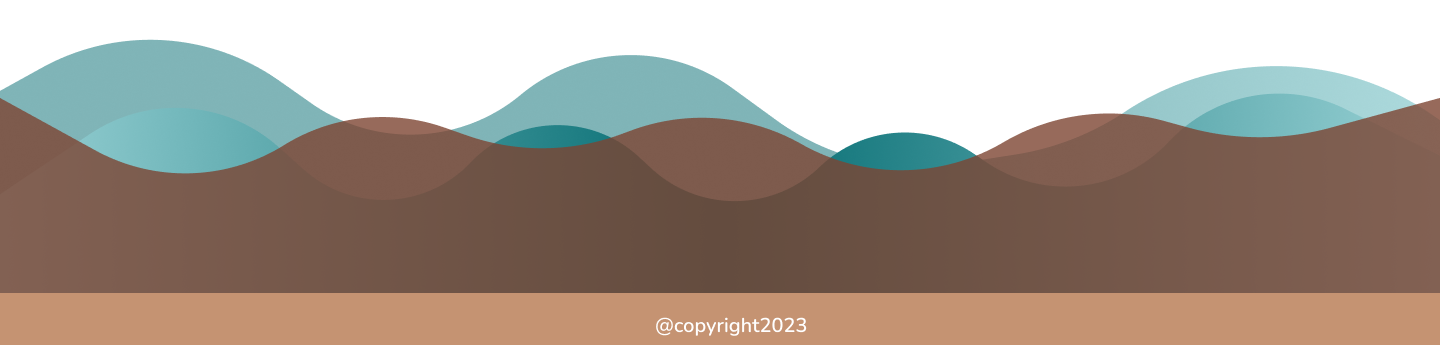
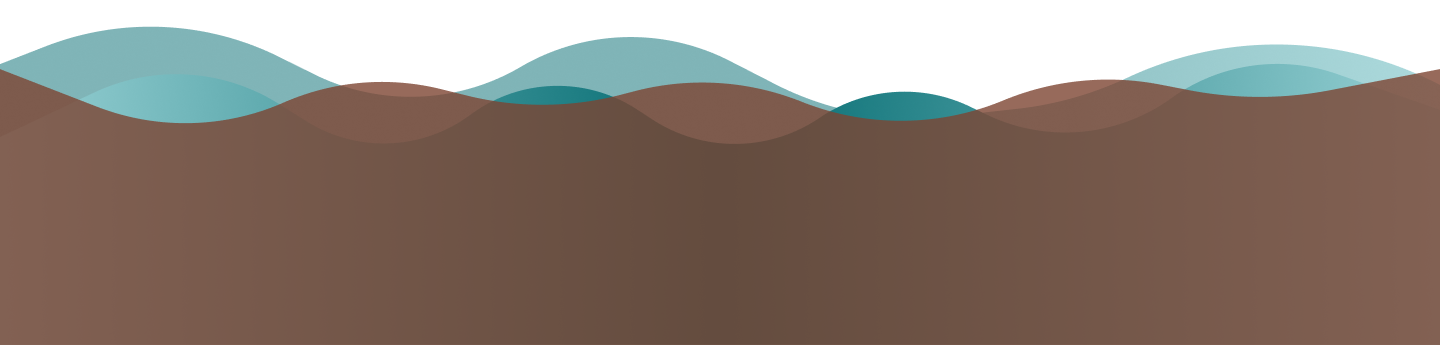
footer?

diff --git a/Homepage.html b/Homepage.html
@@ -64,12 +64,12 @@
 
     <section id = "grid-container-homepage">   
         <article>   
-            <p>bastilla</p>
+            <p>Bastilla</p>
             <a href="bastilla.html" > klik hier voor het recept </a>
             <img src="images/bastilla.jpg" alt="bastilla" title = "bastilla">
         </article>
         <article>
-            <p>chabekia</p>
+            <p>Chabekia</p>
             <a href="chabekia.html" > klik hier voor het recept </a>
             <img src="images/shabekia2.JPG" alt="chabekia" title = "chabekia">
         </article>
@@ -90,9 +90,9 @@
             <!--company info-->
         </section>
         <section id = "footer_section_2">
-                <img src="img/x.png" alt="footer" title="footer"/>
+                <img src="images/favicon.png" alt="footer" title="footer"/>
             <p>
-                contact info
+                contact infoooooooo
             </p>
         </section>
     </footer>

diff --git a/style.css b/style.css
@@ -104,7 +104,7 @@ body
 
 #grid-container-homepage /*les 5 powerpoint */
 {
-  clear: both; /*anders gaat alle tekst boven de nav? */
+  clear: both; /* DOE DIT BIJ ALLE PAGINAS anders gaat alle tekst boven de nav? */
   display: grid;
   grid-template-columns: auto auto auto auto;
   grid-gap: 10px; /*ruimte tussen de containers*/
@@ -130,6 +130,14 @@ body
 #grid-container-homepage a:hover
 {
   text-decoration: underline;
+}
+
+footer
+{
+  background-image: url("images/footer.png"); 
+  display: block;
+  background-repeat: no-repeat;
+  background-size: cover;
 }
 
 
